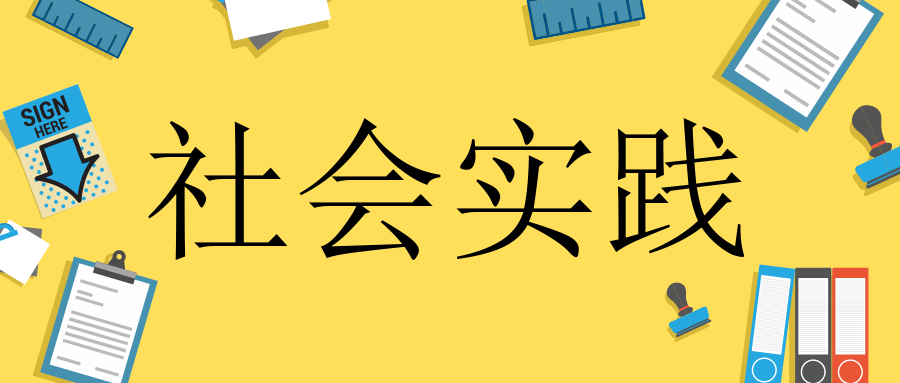
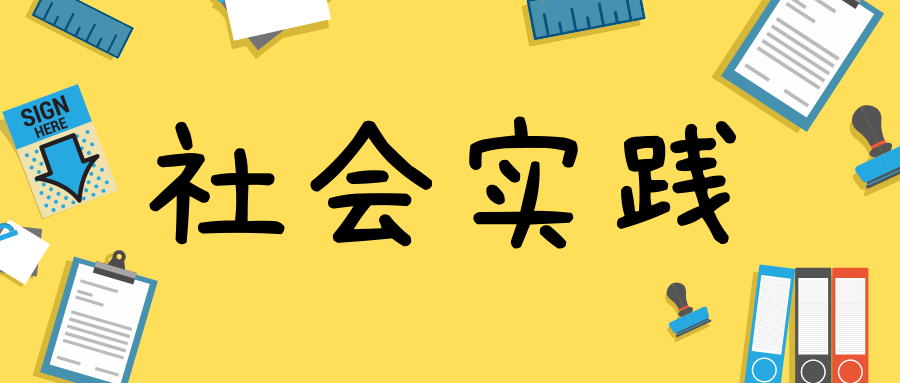
更新"活动"
1.更新"封面图"字体
2.修复对"活动列表"时间状态的处理bug

Changed region(s): [[0.3111, 0.2872, 0.84, 0.6893], [0.1556, 0.3159, 0.3422, 0.6893], [0.4978, 0.6606, 0.5289, 0.6893]]

diff --git a/activity/pages/index/index.js b/activity/pages/index/index.js
@@ -1,13 +1,16 @@
 // activity/pages/index/index.js
 import { handlerGohomeClick, handlerGobackClick } from "../../../utils/navBarUtils";
 import onShareAppMessage from "../../../utils/onShareAppMessage";
-import getHeader from "../../../utils/getHeader";
+import getHeader from "../../../utils/getHeader.js";
 
-const app = getApp();
 const requestUtils = require("../../../utils/requestUtils");
-const timeUtils = require("../../../utils/timeUtils")
+const app = getApp();
 const activityApiPrefix = `${app.globalData.apiUrl}/event`;
 const header = getHeader("urlencoded", app.globalData.token);
+const request = require("../../utils/request");
+const timeUtils = require("../../../utils/timeUtils")
+
+
 
 const SWITCH_LIST = {
   ZERO: 0,
@@ -72,55 +75,57 @@ Page({
 
   // 发请求获取初始活动列表
   getItemList() {
-    let data = {};
-    let url = activityApiPrefix + `?index=${this.data.pageIndex}`
-    let getData = requestUtils.doGET(url, data, header);
-    getData.then((res) => {
-      console.log("开始请求");
-      if(res.data.data[0] == null){
-        this.setData({showNotice: true});
-      }else {
-        let itemList = this.data.itemList;
-        let list = this.handleProperty(res);
-        this.setData({itemList: itemList.concat(list)});
-      }
-    }).catch(() => {
-      console.log("请求失败");
-    })
+    request.fetchData(request.constructUrl('EVENT_LIST',{index:this.data.pageIndex}), "EVENT_LIST", res => {
+      let list = res;
+      list = this.handleProperty(list);
+      this.setPageData(['itemList'], [this.data.itemList.concat(list)])
+    });
   },
 
   // 对列表数组每一项的属性进行处理
   handleProperty(res) {
-    let list = res.data.data;
-    let regexp1 = /\u3010.+\u3011/g;
-    let regexp2 = /[0-9]*.+日/g;
-    let regexp3 = /日/;
-    let regexp4 = /[0-9]*.+号/g;
-    let regexp5 = /[0-9]*\u002e[0-9]*/g;
-    let regexp6 = /[0-9]*\u002e[0-9]*\u002e[0-9]*/g;
-    let regexp7 = /[0-9]*年/g;
-    list[0].startTime = "2021-12-15T00:00:00"
-    list.forEach(item => {
-      item.title = item.title.replace(regexp1, "");
-      let regexp3Index = item.title.search(regexp3)
-      if(regexp3Index != -1) {
-        if(item.title[regexp3Index + 1] != "常")
-          item.title = item.title.replace(regexp2, "");
-      }
-      item.title = item.title.replace(regexp4, "");
-      item.title = item.title.replace(regexp5, "");
-      item.title = item.title.replace(regexp6, "");
-      item.title = item.title.replace(regexp7, "");
+    // let list = res.data.activityList;
+    // let regexp1 = /\u3010.+\u3011/g;
+    // let regexp2 = /[0-9]*.+日/g;
+    // let regexp3 = /日/;
+    // let regexp4 = /[0-9]*.+号/g;
+    // let regexp5 = /[0-9]*\u002e[0-9]*/g;
+    // let regexp6 = /[0-9]*\u002e[0-9]*\u002e[0-9]*/g;
+    // let regexp7 = /[0-9]*年/g;
+    // list[0].startTime = "2021-12-15T00:00:00"
+    res.forEach(item => {
+      // item.title = item.title.replace(regexp1, "");
+      // let regexp3Index = item.title.search(regexp3)
+      // if(regexp3Index != -1) {
+      //   if(item.title[regexp3Index + 1] != "常")
+      //     item.title = item.title.replace(regexp2, "");
+      // }
+      // item.title = item.title.replace(regexp4, "");
+      // item.title = item.title.replace(regexp5, "");
+      // item.title = item.title.replace(regexp6, "");
+      // item.title = item.title.replace(regexp7, "");
       item.startTime = item.startTime.replace(/-/g, "/")
-      item.endTime = item.endTime.replace(/-/g, "/")
-      item.timeInterval = timeUtils.getIntervalToCurrentTime(item.startTime)
-      if(timeUtils.getTimeStamp(item.startTime) / 1000 - parseInt(new Date().getTime() / 1000) > 0) {
-        item.timeInterval += "后"
-      }else {
-        item.timeInterval += "前"
+      item.signEndTime = item.signEndTime.replace(/-/g, "/")
+      item.src =  `../../assets/pic/category/${item.category}.png`
+      if(new Date(item.startTime.replace(/T/g, " ")).getDate() === new Date(). getDate()) {
+        item.timeInterval = "今天";
+        if (new Date().getTime() > new Date(item.signEndTime.replace(/T/g, " "))) {
+          item.state = '已结束';
+        } else if (new Date().getTime() - new Date(item.startTime.replace(/T/g, " ")) > 0) {
+          item.state = '进行中';
+        }
+      }
+      else {
+        item.timeInterval = timeUtils.getIntervalToCurrentTime(item.startTime)
+        if(timeUtils.getTimeStamp(item.startTime) - new Date().getTime() > 0) {
+          item.timeInterval += "后";
+        }else {
+          item.state = '已结束';
+          item.timeInterval += "前";
+        }
       }
     })
-    return list;
+    return res;
   },
 
   // 滑倒底部获取接下来一页列表
@@ -133,7 +138,7 @@ Page({
 
   // 点击活动跳转到详情
   toItemDetails(e) {
-    let eventId = this.data.itemList[e.currentTarget.dataset.index].id;
+    let eventId = this.data.itemList[e.currentTarget.dataset.index].activityId;
     console.log(eventId)
     wx.navigateTo({
       url: `/activity/pages/detail/detail?eventId=${eventId}`,
@@ -167,7 +172,11 @@ Page({
       this.setData({selected: e.currentTarget.dataset.selected})
     }
     this.data.selected === SWITCH_LIST.TWO && this.data.mineScoreList.length === 0
-      ? this.getScoreList(wx.getStorageSync('isActivityMinePageLatest'))
+      ? (() => {
+        console.log("yes")
+        this.referSummary();
+        this.getScoreList(wx.getStorageSync('isActivityMinePageLatest'));
+      })()
       : () => {}
   },
 
@@ -183,7 +192,7 @@ Page({
     let isGetNew = typeof isLatest !== "boolean"
       ? true
       : !isLatest
-    let url = activityApiPrefix + '/sc/score_detail?force=' + isGetNew
+    let url = activityApiPrefix + '/sc/score?force=' + isGetNew
     let getData = requestUtils.doGET(url, {}, header)
 
     isGetNew
@@ -216,20 +225,29 @@ Page({
       wx.showModal({
         title: "哎呀，出错误了 >.<",
         content:
-          err.data.code != 1
+          err.data.code !== 1
             ? err.data.msg
             : "业务逻辑出错",
         showCancel: false,
-        complete: err.data.code == 6
-          ? () => {
+        complete: err.data.code === 6
+          ? (() => {
             app.globalData.identity = {}
             app.globalData.verified = false
             wx.setStorageSync('verified', false)
             wx.setStorageSync('identity', {})
             wx.redirectTo({url: '/pages/verify/verify'})
-          }
+          })()
           : () => {}
       })
+    })
+  },
+
+  referSummary() {
+    request.fetchData(request.constructUrl("SCORE_SUMMARY", {}), "SCORE_SUMMARY", res => {
+      this.setData({
+        'option.series[0].data[0].value':[res.themeReport, res.socialPractice, res.campusCulture, res.creativity, res.charity, res.safetyCivilization]
+      })
+      console.log(res)
     })
   },
 
@@ -252,6 +270,12 @@ Page({
     })
   },
 
+  setPageData(pageData, data) {
+    for(let index in pageData) {
+      this.setData({[pageData[index]]: data[index]})
+    }
+  },
+
   handlerGohomeClick,
   handlerGobackClick,
   onShareAppMessage,
@@ -266,46 +290,4 @@ Page({
       verified: app.globalData.verified
     });
   },
-
-  /**
-   * 生命周期函数--监听页面初次渲染完成
-   */
-  onReady () {
-  },
-
-  /**
-   * 生命周期函数--监听页面显示
-   */
-  onShow () {
-
-  },
-
-  /**
-   * 生命周期函数--监听页面隐藏
-   */
-  onHide () {
-
-  },
-
-  /**
-   * 生命周期函数--监听页面卸载
-   */
-  onUnload () {
-
-  },
-
-  /**
-   * 页面相关事件处理函数--监听用户下拉动作
-   */
-  onPullDownRefresh () {
-
-  },
-
-  /**
-   * 页面上拉触底事件的处理函数
-   */
-  onReachBottom () {
-
-  }
-
 })

diff --git a/activity/utils/request.js b/activity/utils/request.js
@@ -1,23 +1,23 @@
-import getHeader from "../../../utils/getHeader";
+import getHeader from "../../utils/getHeader.js";
 
-const requestUtils = require("../../../utils/requestUtils");
+const requestUtils = require("../../utils/requestUtils");
 const app = getApp();
 const eventApiPrefix = `${app.globalData.apiUrl}/event`;
 const header = getHeader("urlencoded", app.globalData.token);
 
 const REQUEST_PURPOSE = ["EVENT_LIST", "EVENT_DETAIL", "EVENT_JOIN", "SCORE_SUMMARY", "SCORE_DETAIL", "EVENT_JOINED"];
 
-const constructUrl = function (requestPurpose, params) {
+const constructUrl = (requestPurpose, params) => {
   let url = eventApiPrefix;
 
   const [first, second, third, fourth, fifth, sixth] = REQUEST_PURPOSE;
   switch (requestPurpose) {
     case(first): {
-      url += `?index=${params.index}`;
+      url += `/sc?index=${params.index}`;
       break;
     }
     case(second):{
-      url += `/sc/score_detail?force=${params.force}`;
+      url += `/sc/${params.eventId}`;
       break;
     }
     case(third): {
@@ -25,11 +25,11 @@ const constructUrl = function (requestPurpose, params) {
       break;
     }
     case(fourth): {
-      url += `/sc/score`
+      url += `/sc/score/summary`
       break;
     }
     case(fifth): {
-      url += `/sc/score_detail?force=${params.force}`
+      url += `/sc/score?force=${params.force}`
       break;
     }
     case(sixth): {
@@ -41,18 +41,18 @@ const constructUrl = function (requestPurpose, params) {
   return url;
 }
 
-const fetchData = function (url, requestPurpose, callback) {
+const fetchData =  (url, requestPurpose, callback) => {
   let getData = requestUtils.doGET(url, {}, header);
   getData.then(res => {
     let data;
     const [first, second, third, fourth, fifth, sixth] = REQUEST_PURPOSE;
     switch(requestPurpose) {
       case(first): {
-        data = res.data.data;
+        data = res.data.data.activityList;
         break
       }
       case(second): {
-        data = res.data.data;
+        data = res.data.data.activityDetail;
         break;
       }
       case(fourth): {
@@ -74,7 +74,7 @@ const fetchData = function (url, requestPurpose, callback) {
   })
 };
 
-const submitData = function (url, requestPurpose, callback) {
+const submitData = (url, requestPurpose, callback) => {
   let postData = requestUtils.doPOST(url, {}, header);
 
   postData.then(res => {
@@ -93,30 +93,32 @@ const submitData = function (url, requestPurpose, callback) {
 
 }
 
-const handleFetchListError = function (err) {
+const handleFetchListError =  (err) => {
 
   wx.showModal({
     title: "哎呀，出错误了 >.<",
-    content:
-      err.data.code !== 1
-        ? err.data.msg
-        : "业务逻辑出错",
+    content: err.data.msg,
     showCancel: false,
     complete: err.data.code === 6
-      ? () => {
+      ? (() => {
         app.globalData.identity = {}
         app.globalData.verified = false
         wx.setStorageSync('verified', false)
         wx.setStorageSync('identity', {})
         wx.redirectTo({url: '/pages/verify/verify'})
-      }
-      : () => {
+      })()
+      : (() => {
         wx.switchTab({
           url: '/pages/index/index'
         })
-      }
+      })()
   })
 }
 
-
+module.exports = {
+  constructUrl,
+  fetchData,
+  submitData,
+  handleFetchListError
+}
 
